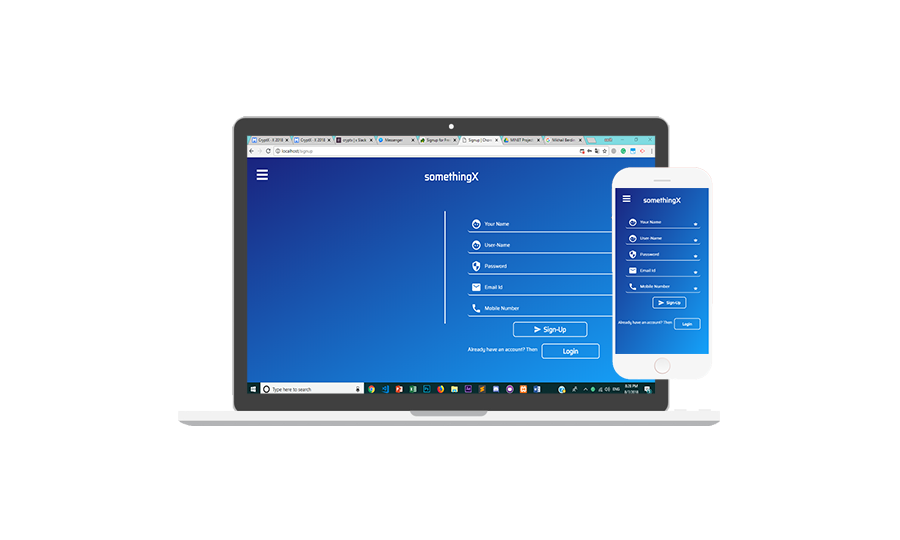
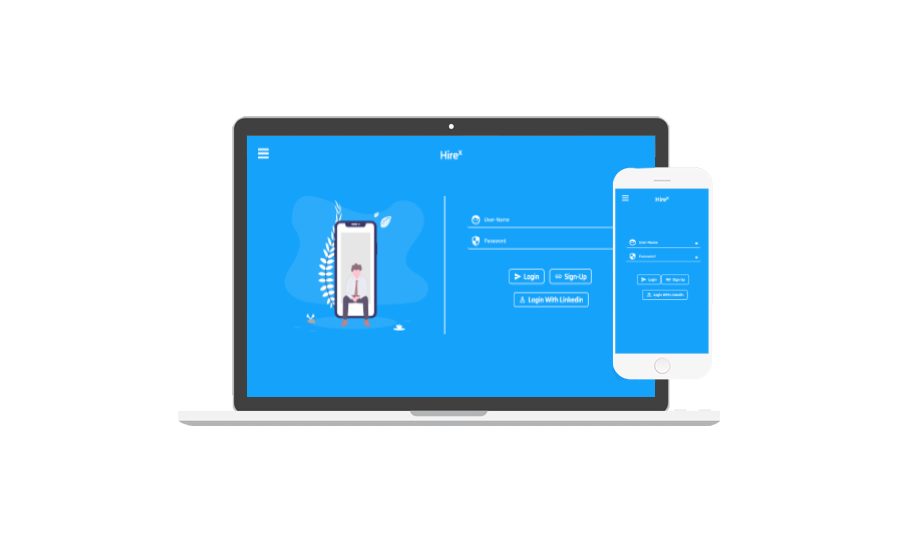
Mergin Done ^^Probably

Changed region(s): [[0.2489, 0.237, 0.8089, 0.7407]]

diff --git a/public/stylesheets/_menu.css b/public/stylesheets/_menu.css
@@ -1,7 +1,8 @@
 @import "_fonts.css";
 article,aside,details,figcaption,figure,footer,header,hgroup,main,nav,section,summary{display:block;}audio,canvas,video{display:inline-block;}audio:not([controls]){display:none;height:0;}[hidden]{display:none;}html{font-family:sans-serif;-ms-text-size-adjust:100%;-webkit-text-size-adjust:100%;}body{margin:0;}a:focus{outline:thin dotted;}a:active,a:hover{outline:0;}h1{font-size:2em;margin:0.67em 0;}abbr[title]{border-bottom:1px dotted;}b,strong{font-weight:bold;}dfn{font-style:italic;}hr{-moz-box-sizing:content-box;box-sizing:content-box;height:0;}mark{background:#ff0;color:#000;}code,kbd,pre,samp{font-family:monospace,serif;font-size:1em;}pre{white-space:pre-wrap;}q{quotes:"\201C" "\201D" "\2018" "\2019";}small{font-size:80%;}sub,sup{font-size:75%;line-height:0;position:relative;vertical-align:baseline;}sup{top:-0.5em;}sub{bottom:-0.25em;}img{border:0;}svg:not(:root){overflow:hidden;}figure{margin:0;}fieldset{border:1px solid #c0c0c0;margin:0 2px;padding:0.35em 0.625em 0.75em;}legend{border:0;padding:0;}button,input,select,textarea{font-family:inherit;font-size:100%;margin:0;}button,input{line-height:normal;}button,select{text-transform:none;}button,html input[type="button"],input[type="reset"],input[type="submit"]{-webkit-appearance:button;cursor:pointer;}button[disabled],html input[disabled]{cursor:default;}input[type="checkbox"],input[type="radio"]{box-sizing:border-box;padding:0;}input[type="search"]{-webkit-appearance:textfield;-moz-box-sizing:content-box;-webkit-box-sizing:content-box;box-sizing:content-box;}input[type="search"]::-webkit-search-cancel-button,input[type="search"]::-webkit-search-decoration{-webkit-appearance:none;}button::-moz-focus-inner,input::-moz-focus-inner{border:0;padding:0;}textarea{overflow:auto;vertical-align:top;}table{border-collapse:collapse;border-spacing:0;}
-html, 
-body, 
+body{
+	overflow-x: hidden;
+}
 .container, 
 .content-wrap {
 	width: 100%;
@@ -16,12 +17,14 @@ body,
 }
 .heading{
 	position: absolute;
-	top: 10px;
+	top: -2px;
+
 	width: 100%;
 	text-align: center;
 	color: white;
-	font-family: "Arciform";
+	font-family: "Segoe UI";
 	z-index: 1000;
+	font-size: 20px;
 }
 .menu-wrap a {
 	color: #1A237E;
@@ -198,4 +201,7 @@ body,
 	transition: opacity 0.3s;
 	-webkit-transform: translate3d(0,0,0);
 	transform: translate3d(0,0,0);
+}
+.heading > h1{
+	font-weight: lighter; 
 }

diff --git a/public/stylesheets/PAGE_home.css b/public/stylesheets/PAGE_home.css
@@ -1,11 +1,11 @@
 @import "_button_button.css";
 .home-cover{
     background-color:#15a2fa;
-    height: 100vh;
+    height: 150vh;
     width: 100vw;
 }
 .cover-inner{
-	width: 100vw;
+    width: 100vw;
     height: 100vh;
     background: url('/public/images/Capture.PNG') no-repeat;
     z-index: 1000;
@@ -13,3 +13,87 @@
     background-size: contain;
     background-position: bottom;
 }
+/* I started Here */
+.btn {
+  position: relative;
+  font-family: segoe ui;
+
+  display: block;
+  margin: auto;
+  padding: 0;
+  top: 250px;
+
+  overflow: hidden;
+
+  border-width: 0;
+  outline: none;
+  border-radius: 2px;
+  box-shadow: 0 1px 4px rgba(0, 0, 0, .6);
+  
+  background-color:#686de0;
+  color: #ecf0f1;
+  
+  transition: background-color .3s;
+}
+
+.btn:hover, .btn:focus {
+  background-color: #4834d4;
+}
+
+
+.btn span {
+  display: block;
+  padding: 12px 24px;
+}
+
+.btn:before {
+  content: "";
+  
+  position: absolute;
+  top: 50%;
+  left: 50%;
+  
+  display: block;
+  width: 0;
+  padding-top: 0;
+    
+  border-radius: 100%;
+  
+  background-color: rgba(236, 240, 241, .3);
+  
+  -webkit-transform: translate(-50%, -50%);
+  -moz-transform: translate(-50%, -50%);
+  -ms-transform: translate(-50%, -50%);
+  -o-transform: translate(-50%, -50%);
+  transform: translate(-50%, -50%);
+}
+
+.btn:active:before {
+  width: 120%;
+  padding-top: 120%;
+  
+  transition: width .2s ease-out, padding-top .2s ease-out;
+}
+
+#ft1 {
+
+	font-family: "segoe ui";
+	font-weight: lighter;
+	color:  white;
+	font-size: 3rem;
+	z-index: 10000;
+	text-align: center;
+	
+}
+
+#ft2 {
+
+	font-family: "segoe ui";
+	font-weight: lighter;
+	color:  white;
+	font-size: 1rem;
+	z-index: 10000;
+	text-align: center;
+	
+}
+/* I end here*/

diff --git a/public/stylesheets/PAGE_login.css b/public/stylesheets/PAGE_login.css
@@ -2,10 +2,6 @@
 body{
     background: #15a2fa no-repeat;
     height: 100vh;
-    overflow: hidden;
-}
-.margin{
-    margin-top: 3.5rem;
 }
 .form{
     
@@ -20,6 +16,9 @@ body{
     margin-left: 5vw;
     padding-right: 5vw;
     border-right: 3px rgb(255, 255, 255) solid;
+}
+.margin{
+    margin-top: 3.5rem;
 }
 .form > .right-div{
     color: white;
@@ -39,7 +38,7 @@ body{
 .button-button{
     margin-left: 0.8rem;
     line-height: 1rem;
-    /*width: 35%;*/
+    width: 35%;
 }
 .button-button > .container{
     color: white;
@@ -60,19 +59,13 @@ body{
     /* color: white; */
     font-family: "Saira";
 }
-#linkedin{
-    margin-top: 1rem !important;
-}
 @media screen and (max-width: 500px){
-    body{
-        overflow:auto;
-    }
     .left-div{
         display: none;
     }
     .right-div{
         width: 80vw !important;
-        margin: 5vw 5vw 0 0 !important;
+        margin: 0 5vw 0 0 !important;
     }
     .button-button:nth-child(1){
         margin-top: -8vh;

diff --git a/public/stylesheets/PAGE_homel.css b/public/stylesheets/PAGE_homel.css
@@ -1,0 +1,17 @@
+@import "_button_button.css";
+.home-cover{
+    background-color:#15a2fa;
+    height: 150vh;
+    width: 100vw;
+}
+.cover-inner{
+    width: 100vw;
+    height: 100vh;
+    background: url('/public/images/Capture.PNG') no-repeat;
+    z-index: 1000;
+    margin-left: calc((100vw - 100vw)/2);
+    background-size: cover;
+}
+/* I started Here */
+
+/* I end here*/

diff --git a/application/views/pages/login.php b/application/views/pages/login.php
@@ -7,19 +7,18 @@
         <?php echo form_open('/pages/login', array("id"=>"message-form")); ?>
         <?=form_field(['name'=>'username', 'placeholder'=>'User-Name', 'required'=>'true', 'maxlength'=>'15', 'minlength'=>'4','icon'=>'face'])?>
         <?=form_field(['name'=>'password', 'placeholder'=>'Password', 'required'=>'true', 'maxlength'=>'20', 'minlength'=>'8', 'type'=>'password','icon'=>'security'])?>
-        
         <div class="margin"><?php
                 echo component("button_button", ["icon"=>"send", "text"=>"Login"])
             ?>
-            <a href="/signup"><?php
+                       <a href="/signup"><?php
                 echo component("button_button", ["icon"=>"link","text"=>"Sign-Up"])
             ?>  </a>          <br>
             <?php
                 echo component("button_button", ["icon"=>"person_outline", "text"=>"Login With Linkedin", "id"=>"linkedin" ,"style"=>"margin-top:1.5rem;"])
             ?>
-            </div>
+               </div>
 
-            </form>
+</form>
             
         </div>
     </div>

diff --git a/application/views/html/header.php b/application/views/html/header.php
@@ -12,7 +12,7 @@
 	<script src="https://ajax.googleapis.com/ajax/libs/jquery/3.2.1/jquery.min.js"></script>
 	<meta name="viewport" content="width=device-width, initial-scale=1">
 	<script type="text/javascript" src="//platform.linkedin.com/in.js">
-    // api_key:   81v2wai46zvipl
+    //api_key:   81v2wai46zvipl
     authorize: TRUE
 </script>
 	<!--Favicon stuff begin-->
@@ -28,7 +28,7 @@
 <body onload="linkedin()" class="<?=$page_css?>">
 	<script>
 		function linkedin() {
-			// IN.User.authorize();
+			//IN.User.authorize();
 		}
 	</script>
 

diff --git a/application/views/pages/home.php b/application/views/pages/home.php
@@ -1,4 +1,26 @@
 <div class="home-cover">
-    <div class="signup-button">  
+    <div class="signup-button"> 
+
+
+
+
+
+
+
+
+
+    	<button class="btn" type="button"><span>Sign<b> Up </span></button></div>
+<!-- I started Here -->
+
+    		<div id="faltutext">
+    			<h1 id="ft1">Hire better people <b>Faster </h1>
+    			<p id="ft2">An automation platform built for speed. We work with millions of applicants each year <br>for the best companies. </p>
+    			</div>
+
+
+<!-- I end here -->
+
+
+
     <div class="cover-inner"></div>
 </div>

diff --git a/application/views/pages/signup.php b/application/views/pages/signup.php
@@ -14,11 +14,12 @@
                 echo component("button_button", ["icon"=>"send", "text"=>"Sign-Up"])
             ?>
             </form>
-            <a href="/login"><?php
+            <a href="/login">
+            <?php
                 echo component("button_button", ["text"=>"Login"])
             ?>
             </a>
-                    
+            
         </div>
     </div>
 </section>

diff --git a/application/controllers/Pages.php b/application/controllers/Pages.php
@@ -24,7 +24,7 @@ class Pages extends CI_Controller
 			{
 				$data = parse_ini_file($ini_file);
 			}
-			$data['title'] = ((!isset($data['title']))?(ucfirst($page)):($data['title'])) . " | ChoreX";
+			$data['title'] = ((!isset($data['title']))?(ucfirst($page)):($data['title'])) . " | HireX";
 			$data['theme'] = (!isset($data['theme']))?("default"):($data['theme']);
 
 			$data['page'] = $page;

diff --git a/application/views/themes/default/header.php b/application/views/themes/default/header.php
@@ -1,7 +1,7 @@
 <?= style_link_tag("_menu-add"); ?>
 <?= style_link_tag("_menu"); ?>
 <div class="container">
-	<div class="heading"><h1>Hire<sup>x</sup></h1></div>
+		<div class="heading"><h1>Hire<sup>x</sup></h1></div>
 			<div class="menu-wrap">
 				<nav class="menu">
 					<div class="icon-list">

diff --git a/application/views/pages/homel.php b/application/views/pages/homel.php
@@ -1,0 +1,22 @@
+<div class="home-cover">
+    <div class="signup-button"> 
+
+
+
+
+
+
+
+
+
+    	
+<!-- I started Here -->
+
+
+
+<!-- I end here -->
+
+
+
+    <div class="cover-inner"></div>
+</div>

diff --git a/application/views/components/button_button.php b/application/views/components/button_button.php
@@ -5,4 +5,5 @@
 			<i class="material-icons icon"><?=$icon?></i>
 		</div><?php endif; ?><div class="text"><?=$text?></div>
 	</div>
+	
 </button>
